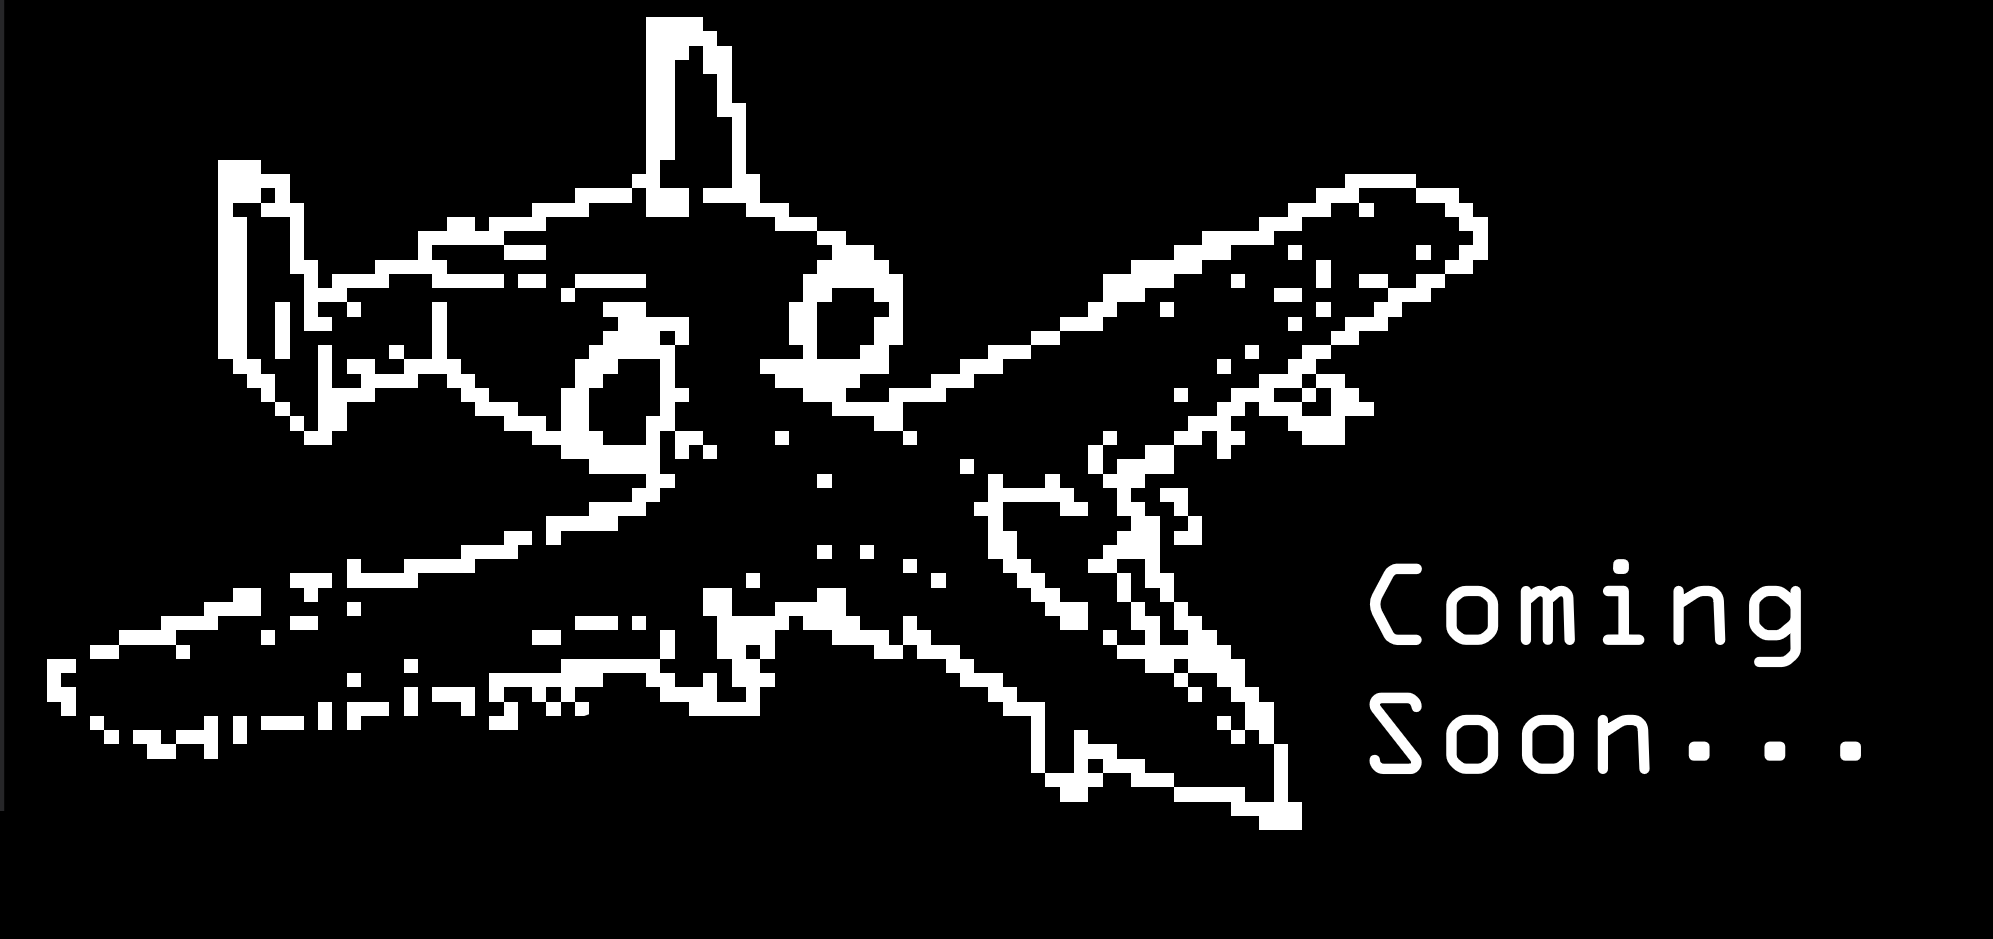
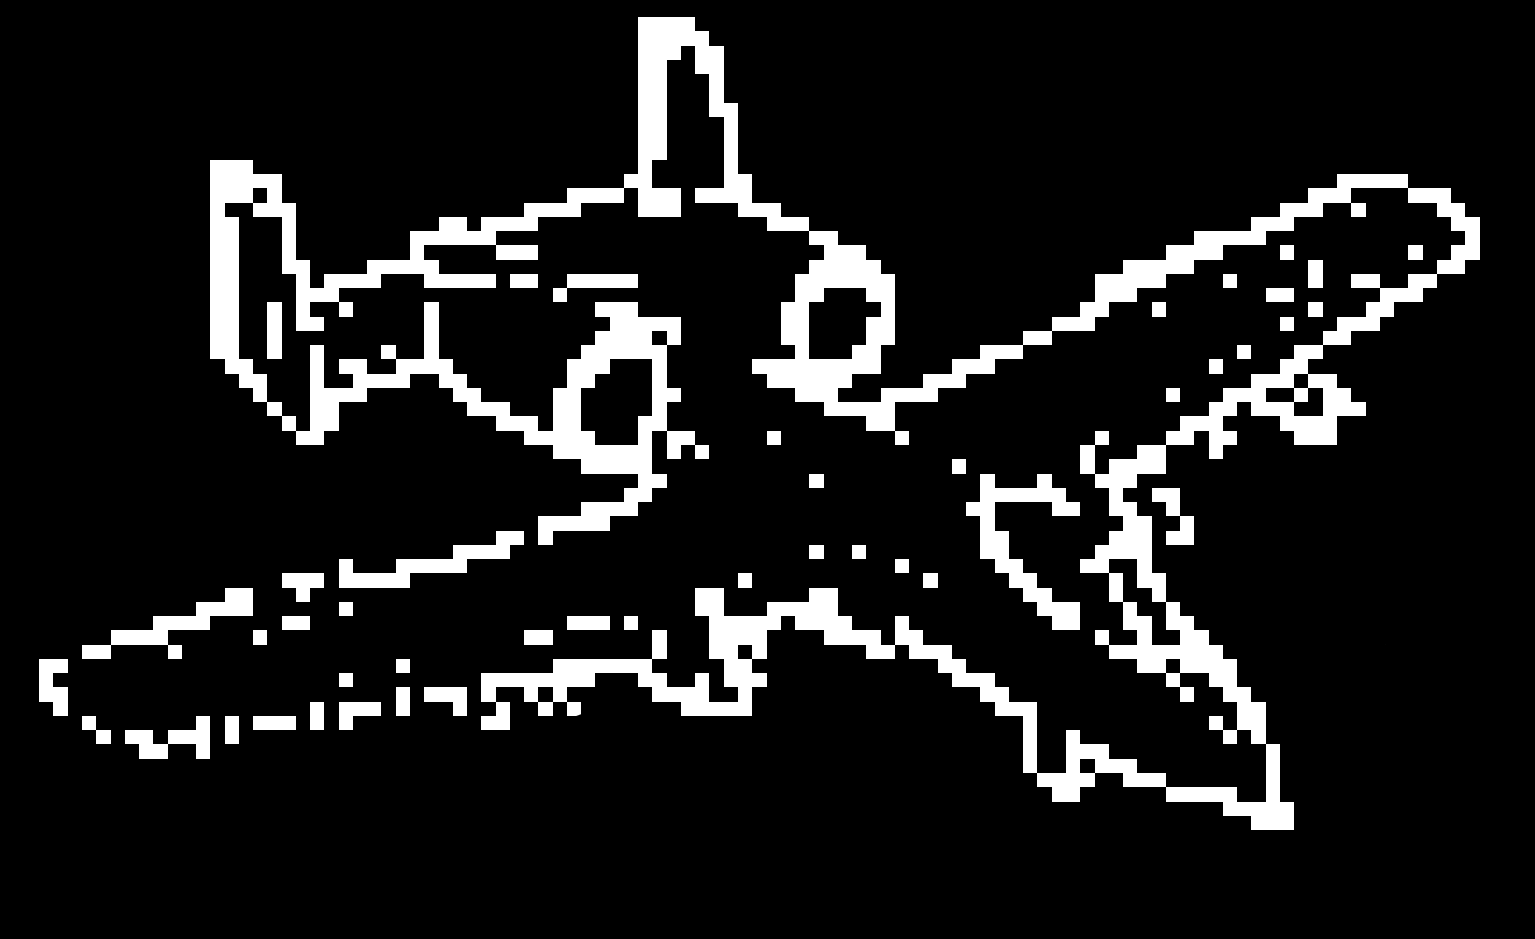
Add files via upload

Changed region(s): [[0.0, 0.0, 0.9798, 0.8956], [0.8879, 0.7721, 0.9492, 0.803]]

diff --git a/index.html b/index.html
@@ -1,27 +1,41 @@
-<html>
-<head>
+
+<!-- saved from url=(0043)file:///C:/Users/dzasa/Downloads/Test2.html -->
+<html><head><meta http-equiv="Content-Type" content="text/html; charset=UTF-8">
+    
+    <meta http-equiv="X-UA-Compatible" content="IE-edge">
     <meta name="viewport" content="width=device-width, initial-scale=1">
     <style>
-        body, html {
-            height: 100%;
-            margin: 0;
+        img {
+            display: block;
+            margin-left: auto;
+            margin-right: auto;
+            width: 70%;
+            max-width: 100%;
+            height: auto;
         }
 
-        .bg {
-            /* The image used */
-            background-image: url("Temp.png"); 
-            /* Full height */
-            height: 100%;
-            /* Center and scale the image nicely */
-            background-position: center;
-            background-repeat: no-repeat;
-            background-size: cover;
+        .soon {
+            font-size: 80px;
+            font-family: "OCR A", "monospace", cursive;
+            position: fixed;
+            text-align: center;
+            bottom: -120px;
+            width: 100%;
         }
+
+
     </style>
 </head>
-<body>
+<body bgcolor="black">
 
-    <div class="bg"></div>
 
-</body>
-</html>
+        <img src="./Testooogonio_files/Temp.png">
+    <footer>
+
+                <div class="soon">
+            <p style="color: white;">Coming Soon...</p>;.
+        </div>
+
+    </footer>
+
+</body></html>
